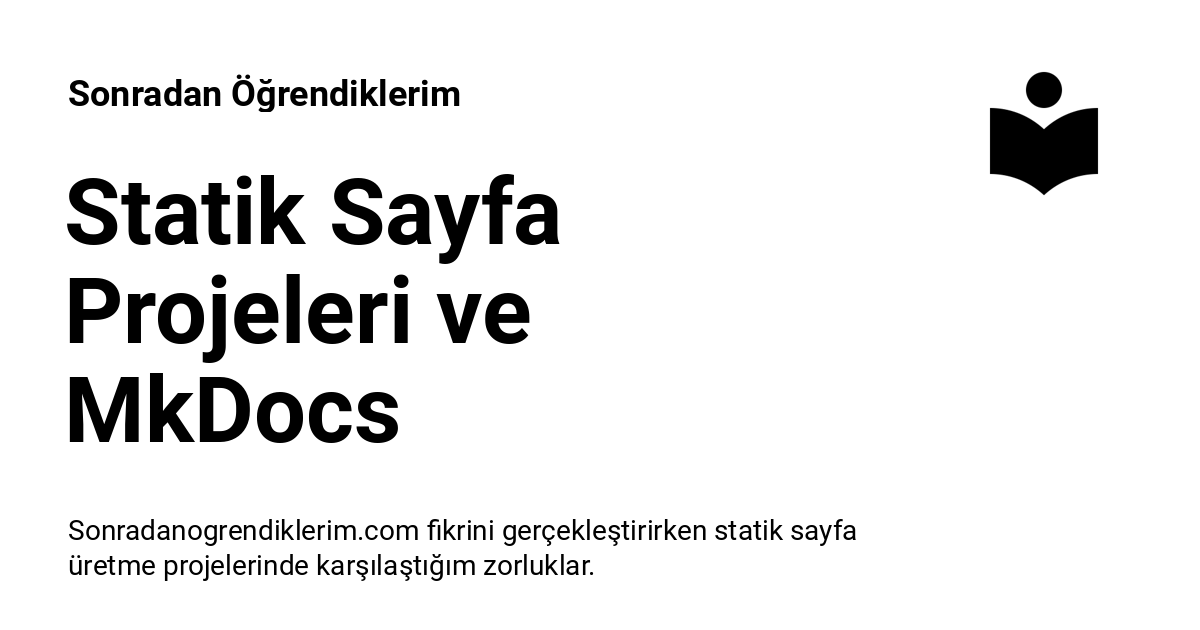
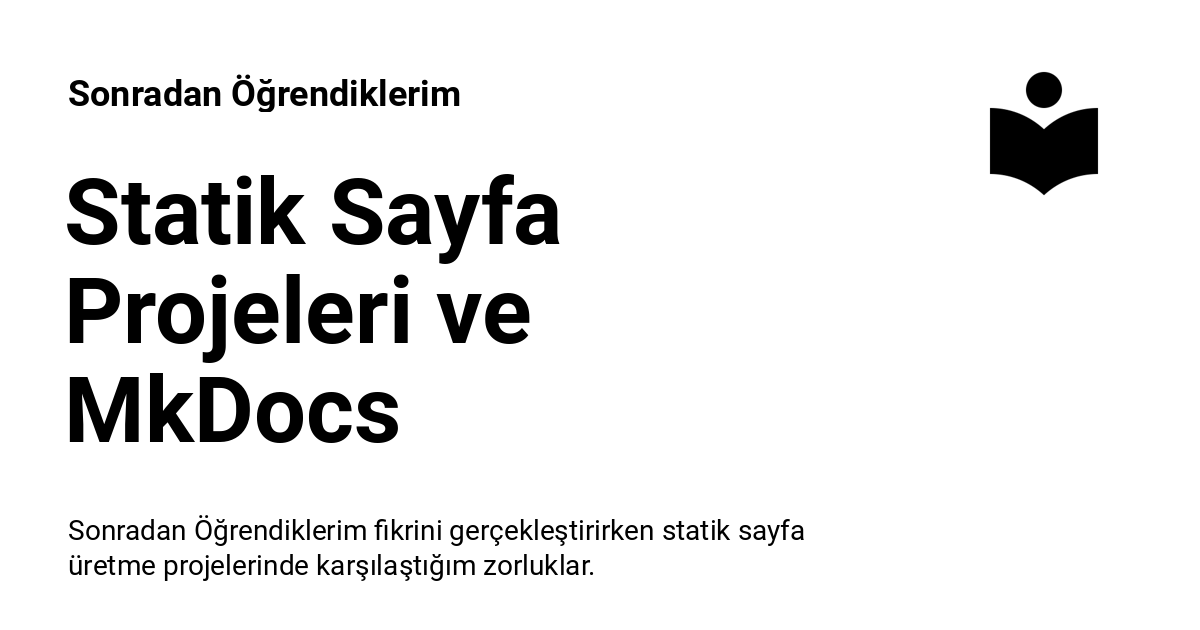
Deployed 0c94a73 with MkDocs version: 1.5.3

Changed region(s): [[0.1542, 0.8143, 0.7092, 0.8746]]

diff --git a/blog/2024/02/19/statik-sayfa-projeleri-ve-mkdocs/index.html b/blog/2024/02/19/statik-sayfa-projeleri-ve-mkdocs/index.html
@@ -6,7 +6,7 @@
       <meta charset="utf-8">
       <meta name="viewport" content="width=device-width,initial-scale=1">
       
-        <meta name="description" content="Sonradanogrendiklerim.com fikrini gerçekleştirirken statik sayfa üretme projelerinde karşılaştığım zorluklar.">
+        <meta name="description" content="Sonradan Öğrendiklerim fikrini gerçekleştirirken statik sayfa üretme projelerinde karşılaştığım zorluklar.">
       
       
         <meta name="author" content="Eren Türkay">
@@ -71,7 +71,7 @@
       
         <meta  property="og:title"  content="Statik Sayfa Projeleri ve MkDocs - Sonradan Öğrendiklerim" >
       
-        <meta  property="og:description"  content="Sonradanogrendiklerim.com fikrini gerçekleştirirken statik sayfa üretme projelerinde karşılaştığım zorluklar." >
+        <meta  property="og:description"  content="Sonradan Öğrendiklerim fikrini gerçekleştirirken statik sayfa üretme projelerinde karşılaştığım zorluklar." >
       
         <meta  property="og:image"  content="https://sonradanogrendiklerim.com/assets/images/social/blog/posts/statik-sayfa-projeleri-ve-mkdocs.png" >
       
@@ -87,7 +87,7 @@
       
         <meta  name="twitter:title"  content="Statik Sayfa Projeleri ve MkDocs - Sonradan Öğrendiklerim" >
       
-        <meta  name="twitter:description"  content="Sonradanogrendiklerim.com fikrini gerçekleştirirken statik sayfa üretme projelerinde karşılaştığım zorluklar." >
+        <meta  name="twitter:description"  content="Sonradan Öğrendiklerim fikrini gerçekleştirirken statik sayfa üretme projelerinde karşılaştığım zorluklar." >
       
         <meta  name="twitter:image"  content="https://sonradanogrendiklerim.com/assets/images/social/blog/posts/statik-sayfa-projeleri-ve-mkdocs.png" >
       
